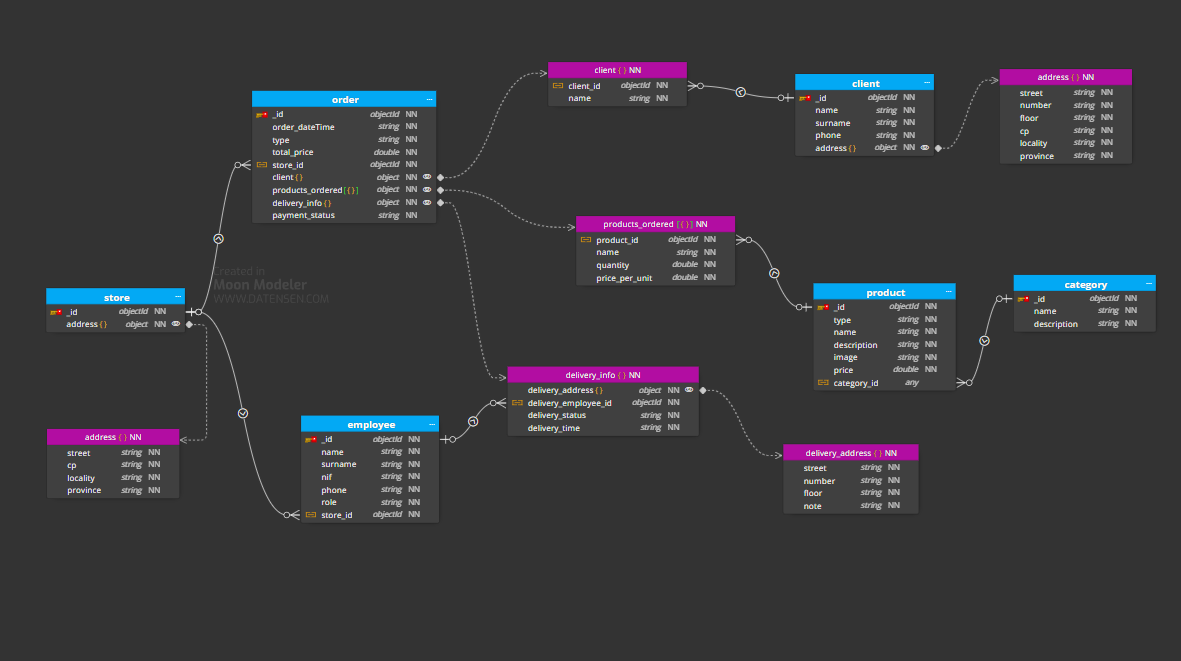
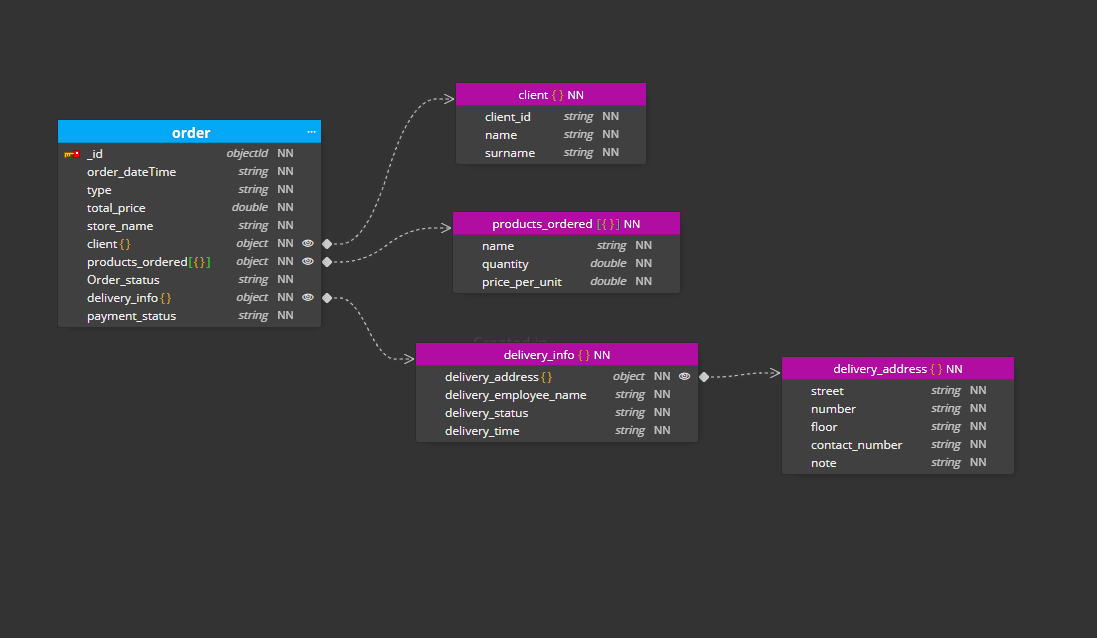
refactor: all exercises refactored to desnormalization

diff --git a/README.md b/README.md
@@ -9,6 +9,21 @@ For each level, the following must be submitted:
 * **Diagram:** A data model diagram (NoSQL-style ERD) created with tools like **Draw.io** or **Moon Modeler**.
 * **Data Files:** `js` or `json` files containing the collection definitions and sample data to verify the design and relationships.
 
+### 💡 A Note on the Design Approach (Denormalization)
+
+The final JSON data structures provided for these exercises (especially for the Optics and Pizzeria) have been designed following a **denormalized** model.
+
+This was a specific design choice to directly address the requirements implied by the **graphical interface (GUI) mockups** provided in the prompts.
+
+Instead of using a normalized (SQL-like) approach with multiple collections and relational lookups (references), this design **embeds** all necessary information into a single document.
+
+* **For the Optics Shop:** The UI mockups for the client view and the glasses view required embedding purchase data directly to avoid complex queries.
+* **For the Pizzeria:** The "Confirmed Order" UI required creating a **snapshot** of all order data (client info, product details, and delivery address) within the `order` document itself.
+
+This "refactored" approach ensures that all data needed to render a specific view can be fetched with a single, efficient query, fulfilling the non-relational goal of the exercise.
+
+
+
 ---
 
 ## Level 1
@@ -78,6 +93,14 @@ Keep the following instructions in mind for modeling the project's database:
 * For home delivery orders, it is necessary to save which **delivery driver** is handling the delivery and the date/time of the delivery.
 
 ![img.png](subject_images/img3.png)
+
+### 🍕 "resources" Folder
+
+Please note that for the Pizzeria exercise, a `resources` folder is included in the project directory.
+
+This folder contains initial setup data, diagrams, or preliminary normalized models used during the initial analysis. **This data is for context only and is not the final answer to the exercise.**
+
+The official solution is the final, denormalized JSON document designed to power the "Confirmed Order" interface.
 
 ---
 
